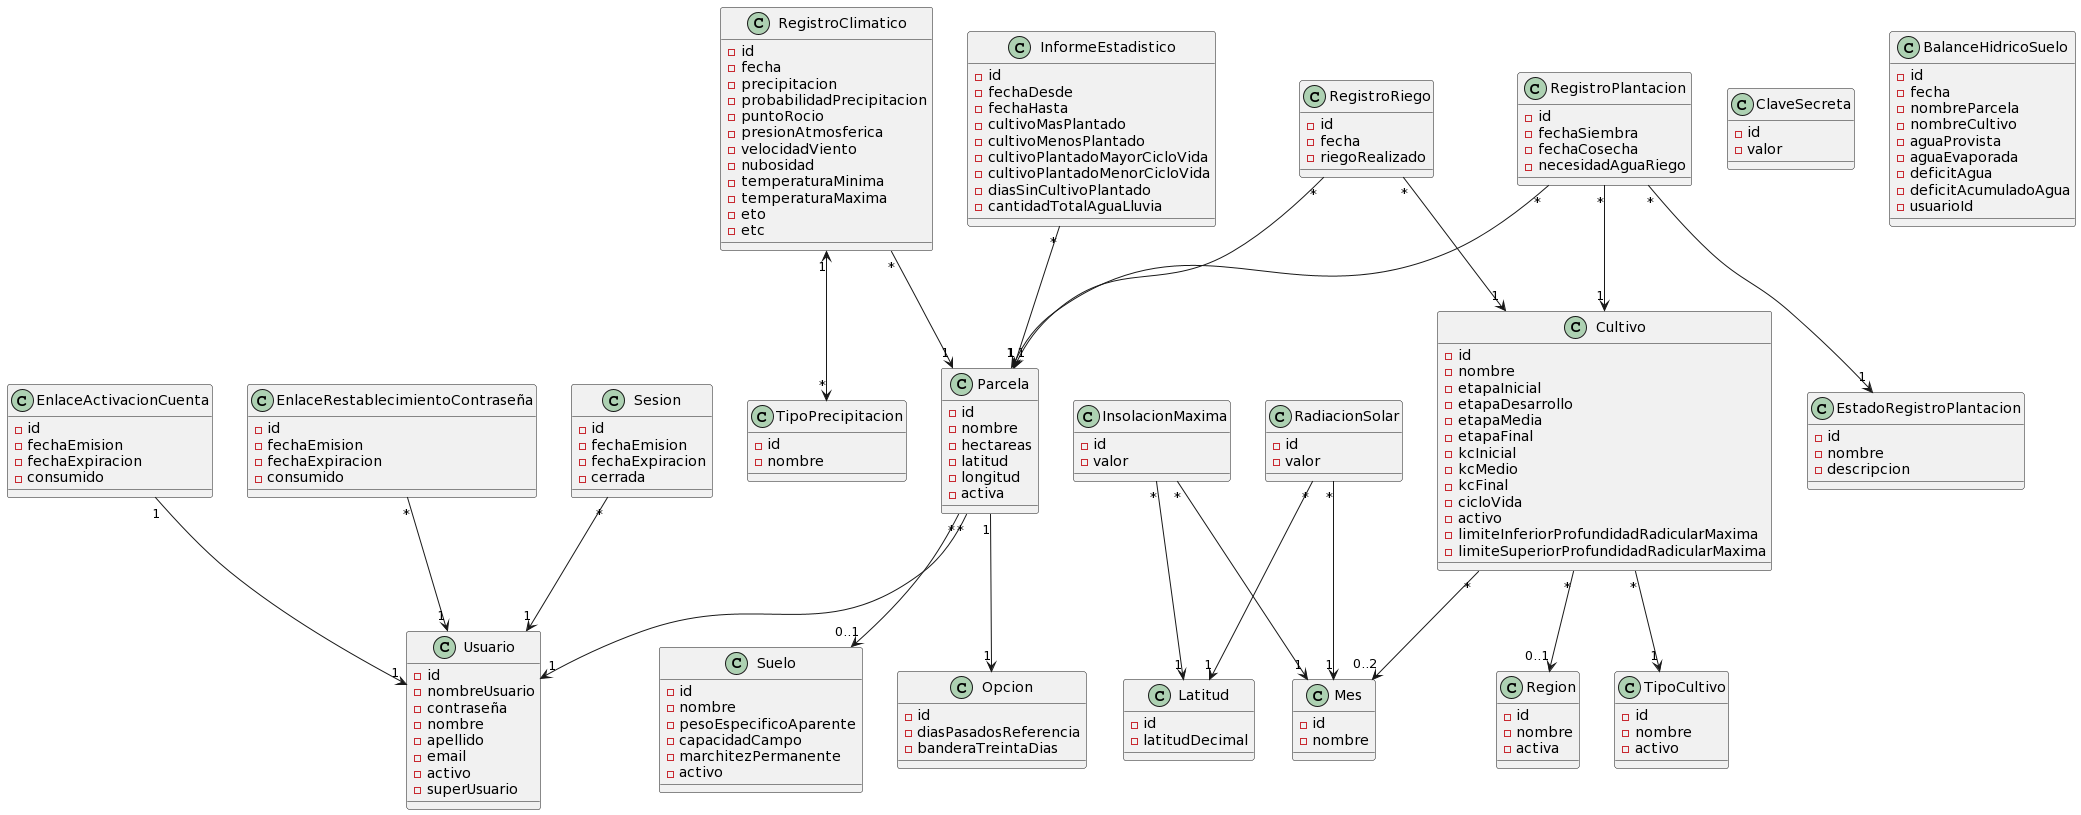
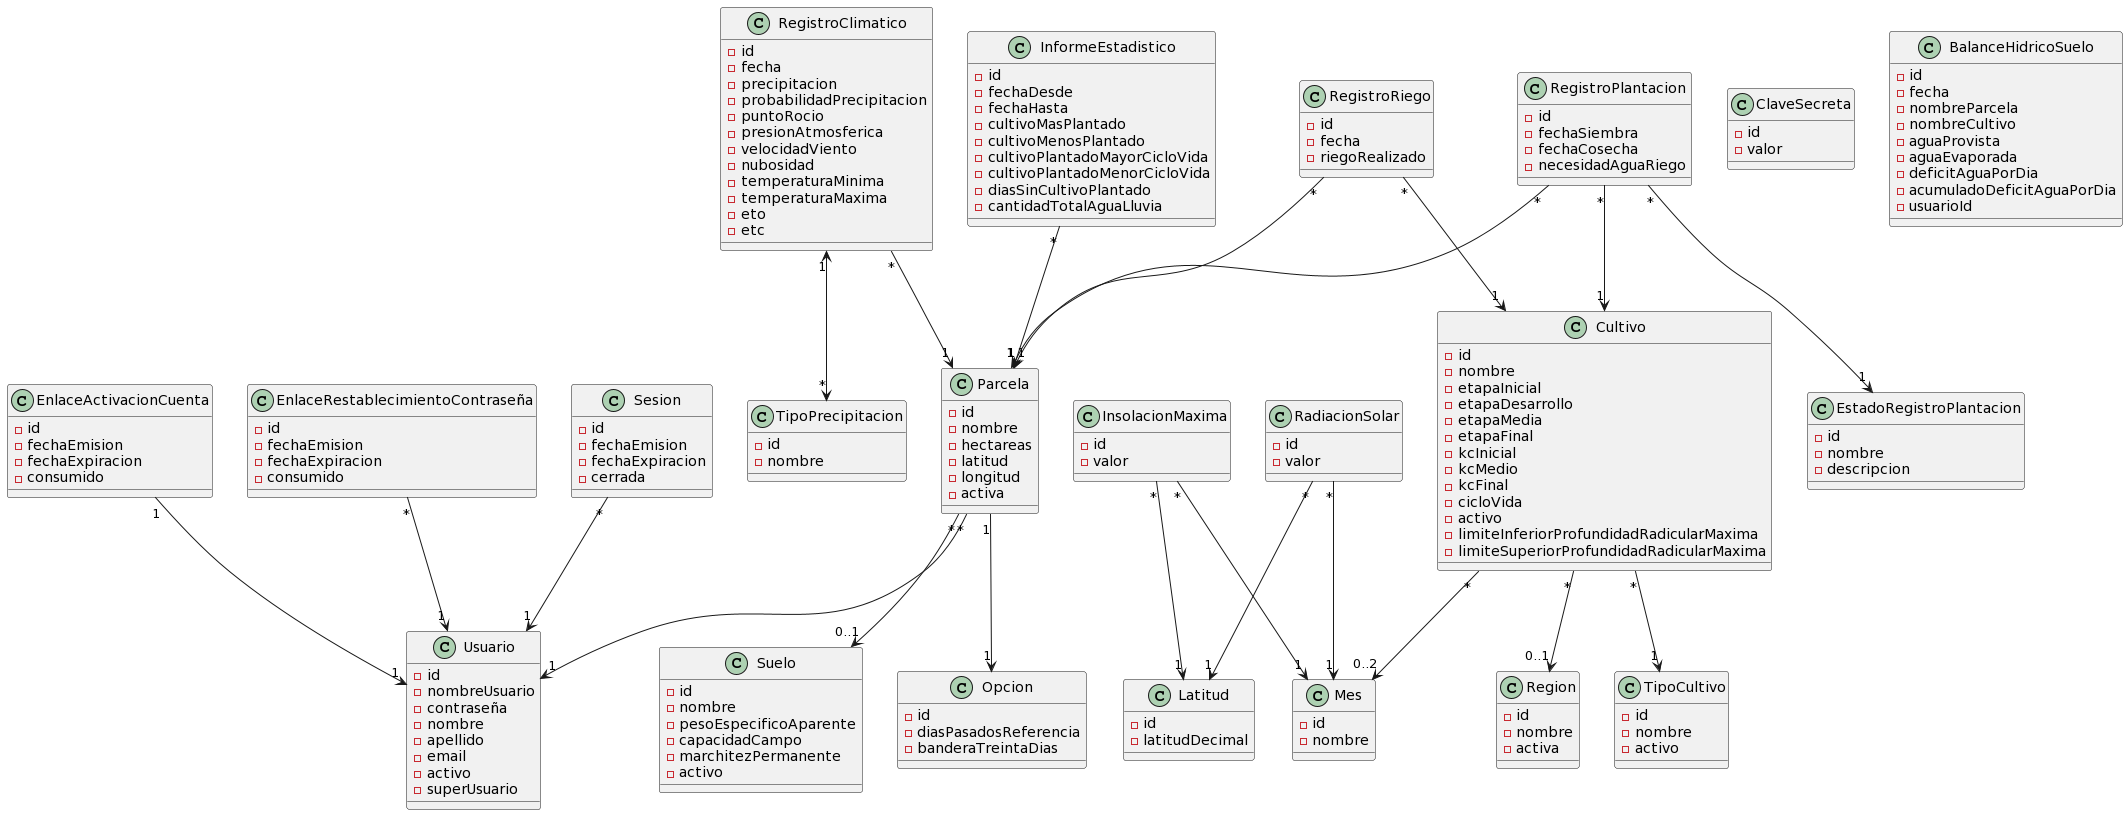
Atributos waterDeficit y accumulatedWaterDeficit de la clase SoilWaterBalance renombrados como waterDeficitPerDay y accumulatedWaterDeficitPerDay, respectivamente

diff --git a/app/public/partials/user/soil-water-balance-list.html b/app/public/partials/user/soil-water-balance-list.html
@@ -162,8 +162,8 @@
                 <td>{{a.cropName}}</td>
                 <td>{{a.waterProvided}}</td>
                 <td>{{a.evaporatedWater}}</td>
-                <td>{{a.waterDeficit}}</td>
-                <td>{{a.accumulatedWaterDeficit}}</td>
+                <td>{{a.waterDeficitPerDay}}</td>
+                <td>{{a.accumulatedWaterDeficitPerDay}}</td>
                 <td class="text-right">
                 </td>
             </tr>

diff --git a/app/src/stateless/SoilWaterBalanceServiceBean.java b/app/src/stateless/SoilWaterBalanceServiceBean.java
@@ -84,16 +84,16 @@ public class SoilWaterBalanceServiceBean {
      * @param cropName
      * @param evaporatedWater
      * @param waterProvided
-     * @param waterDeficit
-     * @param accumulatedWaterDeficit
+     * @param waterDeficitPerDay
+     * @param accumulatedWaterDeficitPerDay
      */
-    public void update(int id, String cropName, double evaporatedWater, double waterProvided, double waterDeficit, double accumulatedWaterDeficit) {
-        Query query = getEntityManager().createQuery("UPDATE SoilWaterBalance c SET c.cropName = :cropName, c.evaporatedWater = :evaporatedWater, c.waterProvided = :waterProvided, c.waterDeficit = :waterDeficit, c.accumulatedWaterDeficit = :accumulatedWaterDeficit WHERE c.id = :id");
+    public void update(int id, String cropName, double evaporatedWater, double waterProvided, double waterDeficitPerDay, double accumulatedWaterDeficitPerDay) {
+        Query query = getEntityManager().createQuery("UPDATE SoilWaterBalance c SET c.cropName = :cropName, c.evaporatedWater = :evaporatedWater, c.waterProvided = :waterProvided, c.waterDeficitPerDay = :waterDeficitPerDay, c.accumulatedWaterDeficitPerDay = :accumulatedWaterDeficitPerDay WHERE c.id = :id");
         query.setParameter("cropName", cropName);
         query.setParameter("evaporatedWater", evaporatedWater);
         query.setParameter("waterProvided", waterProvided);
-        query.setParameter("waterDeficit", waterDeficit);
-        query.setParameter("accumulatedWaterDeficit", accumulatedWaterDeficit);
+        query.setParameter("waterDeficitPerDay", waterDeficitPerDay);
+        query.setParameter("accumulatedWaterDeficitPerDay", accumulatedWaterDeficitPerDay);
         query.setParameter("id", id);
         query.executeUpdate();
     }
@@ -248,8 +248,8 @@ public class SoilWaterBalanceServiceBean {
                 givenSoilWaterBalance.setCropName(cropName);
                 givenSoilWaterBalance.setEvaporatedWater(getEvaporatedWater(currentClimateRecord));
                 givenSoilWaterBalance.setWaterProvided(waterProvidedPerDay);
-                givenSoilWaterBalance.setWaterDeficit(waterDeficitPerDay);
-                givenSoilWaterBalance.setAccumulatedWaterDeficit(accumulatedWaterDeficitPerDay);
+                givenSoilWaterBalance.setWaterDeficitPerDay(waterDeficitPerDay);
+                givenSoilWaterBalance.setAccumulatedWaterDeficitPerDay(accumulatedWaterDeficitPerDay);
                 givenSoilWaterBalance.setUserId(userId);
 
                 /*

diff --git a/app/src/model/SoilWaterBalance.java b/app/src/model/SoilWaterBalance.java
@@ -48,11 +48,11 @@ public class SoilWaterBalance {
     @Column(name = "EVAPORATED_WATER", nullable = false)
     private double evaporatedWater;
 
-    @Column(name = "WATER_DEFICIT", nullable = false)
-    private double waterDeficit;
+    @Column(name = "WATER_DEFICIT_PER_DAY", nullable = false)
+    private double waterDeficitPerDay;
 
-    @Column(name = "ACCUMULATED_WATER_DEFICIT", nullable = false)
-    private double accumulatedWaterDeficit;
+    @Column(name = "ACCUMULATED_WATER_DEFICIT_PER_DAY", nullable = false)
+    private double accumulatedWaterDeficitPerDay;
 
     @Column(name = "USER_ID", nullable = false)
     private int userId;
@@ -105,20 +105,20 @@ public class SoilWaterBalance {
         this.evaporatedWater = evaporatedWater;
     }
 
-    public double getWaterDeficit() {
-        return waterDeficit;
+    public double getWaterDeficitPerDay() {
+        return waterDeficitPerDay;
     }
 
-    public void setWaterDeficit(double waterDeficit) {
-        this.waterDeficit = waterDeficit;
+    public void setWaterDeficitPerDay(double waterDeficitPerDay) {
+        this.waterDeficitPerDay = waterDeficitPerDay;
     }
 
-    public double getAccumulatedWaterDeficit() {
-        return accumulatedWaterDeficit;
+    public double getAccumulatedWaterDeficitPerDay() {
+        return accumulatedWaterDeficitPerDay;
     }
 
-    public void setAccumulatedWaterDeficit(double accumulatedWaterDeficit) {
-        this.accumulatedWaterDeficit = accumulatedWaterDeficit;
+    public void setAccumulatedWaterDeficitPerDay(double accumulatedWaterDeficitPerDay) {
+        this.accumulatedWaterDeficitPerDay = accumulatedWaterDeficitPerDay;
     }
 
     public int getUserId() {
